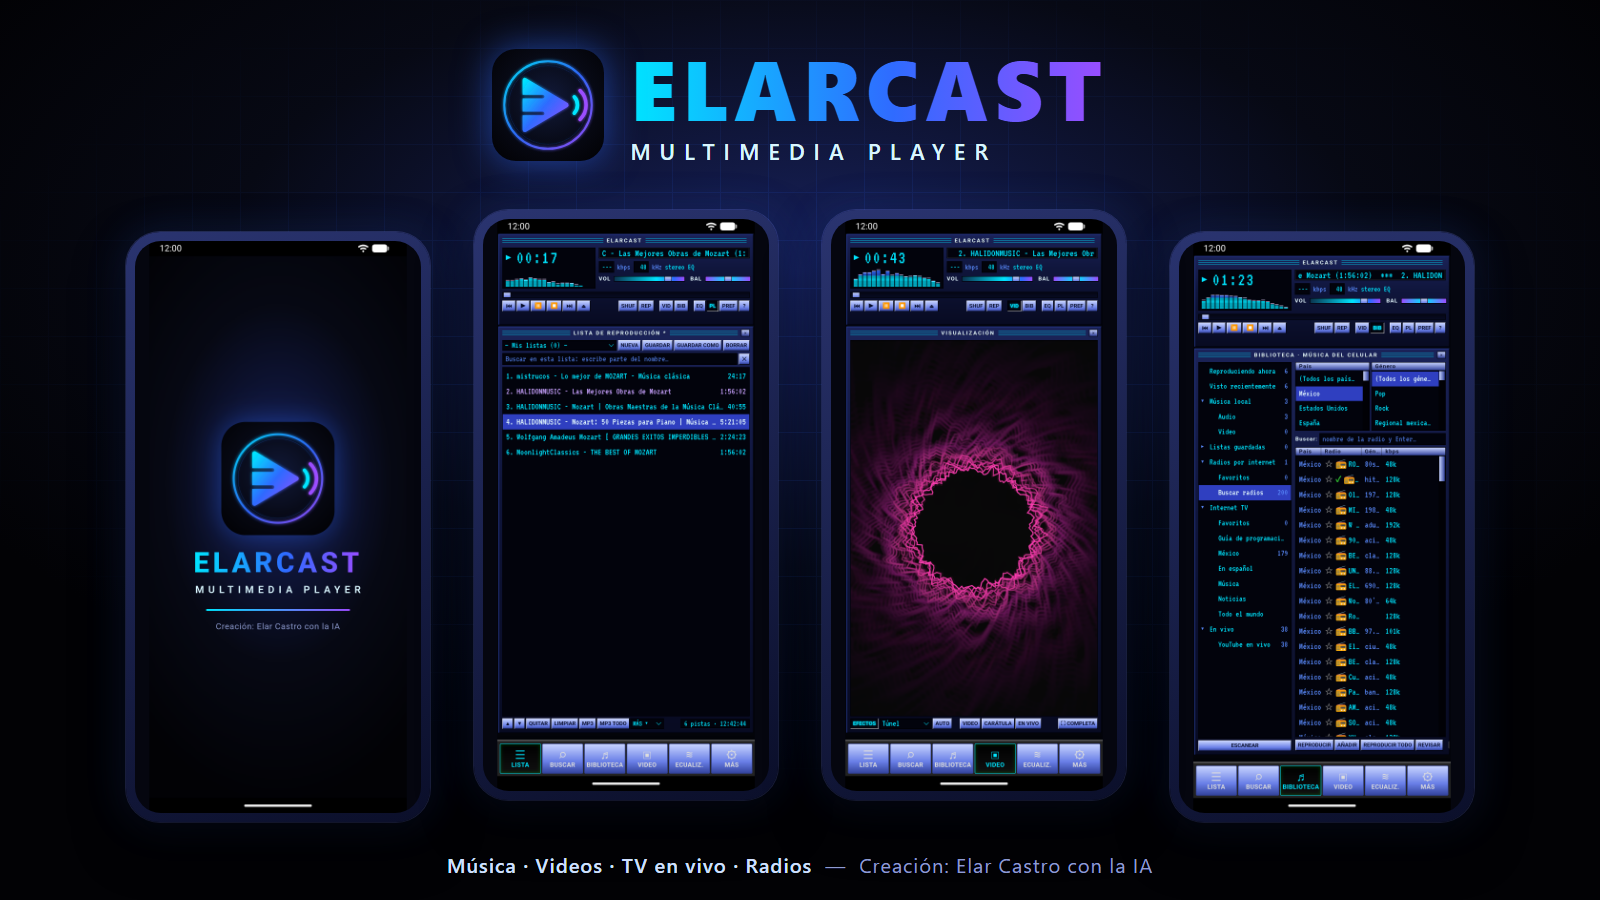
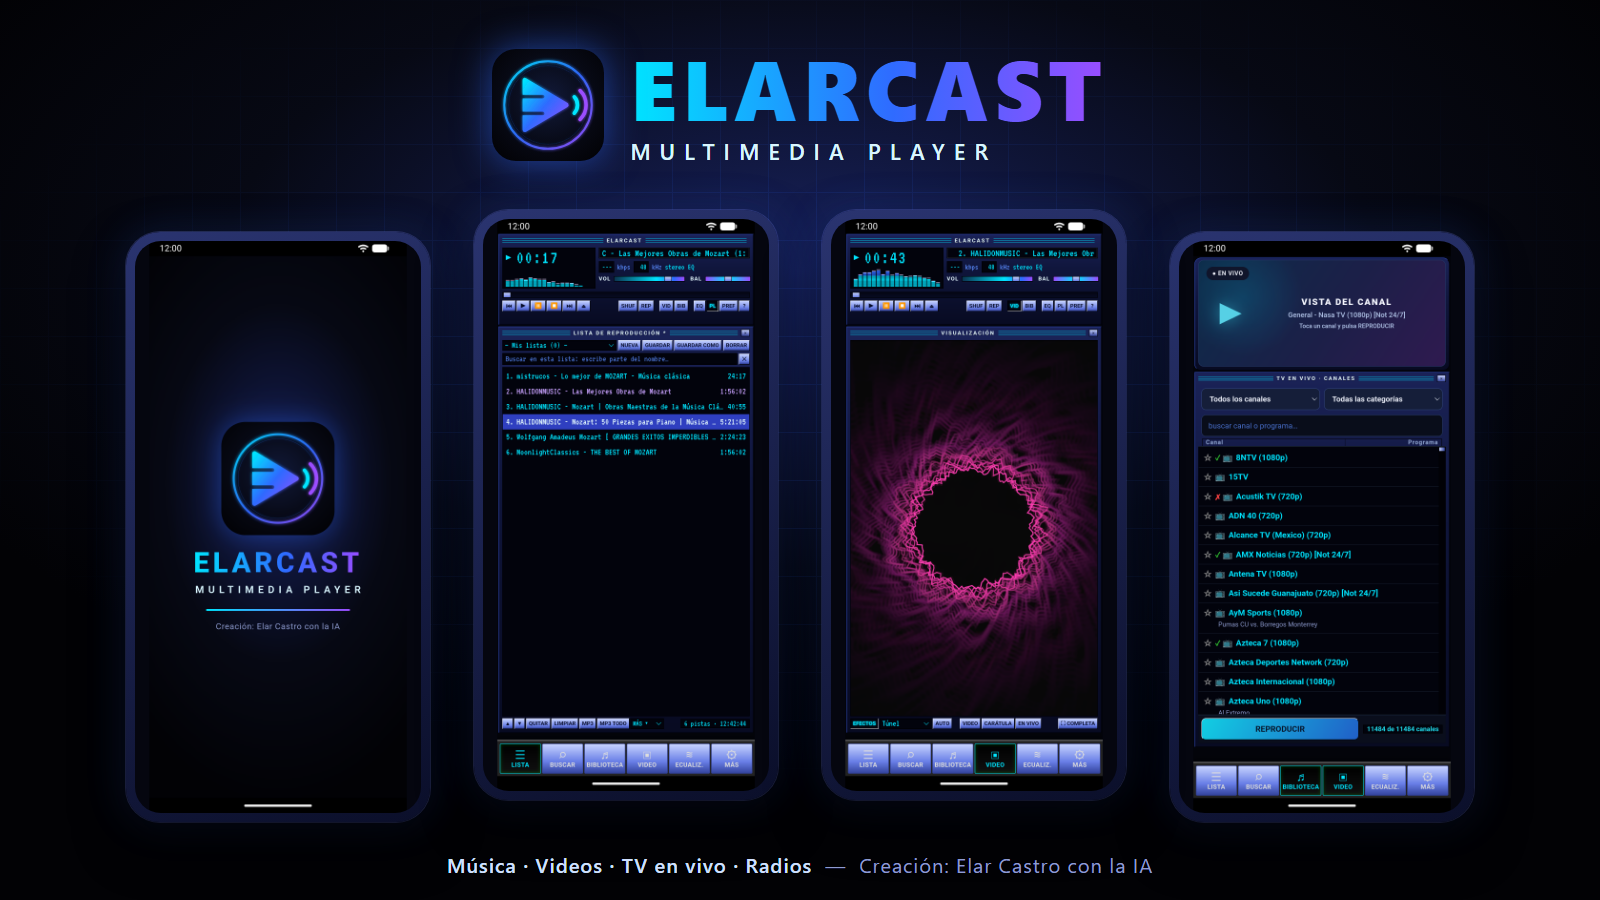
Portada con la nueva vista de TV

Changed region(s): [[0.75, 0.28, 0.9062, 0.9022]]

diff --git a/branding/elarcast_portada.html b/branding/elarcast_portada.html
@@ -24,7 +24,7 @@
     <div class="ph"><img src="capturas/01-inicio.png" alt=""></div>
     <div class="ph up"><img src="capturas/02-lista.png" alt=""></div>
     <div class="ph up"><img src="capturas/04-efectos.png" alt=""></div>
-    <div class="ph"><img src="capturas/06-radios.png" alt=""></div>
+    <div class="ph"><img src="capturas/09-tv-en-vivo.png" alt=""></div>
   </div>
   <div class="cap"><b>Música · Videos · TV en vivo · Radios</b> &nbsp;—&nbsp; Creación: Elar Castro con la IA</div>
 </div></body></html>
